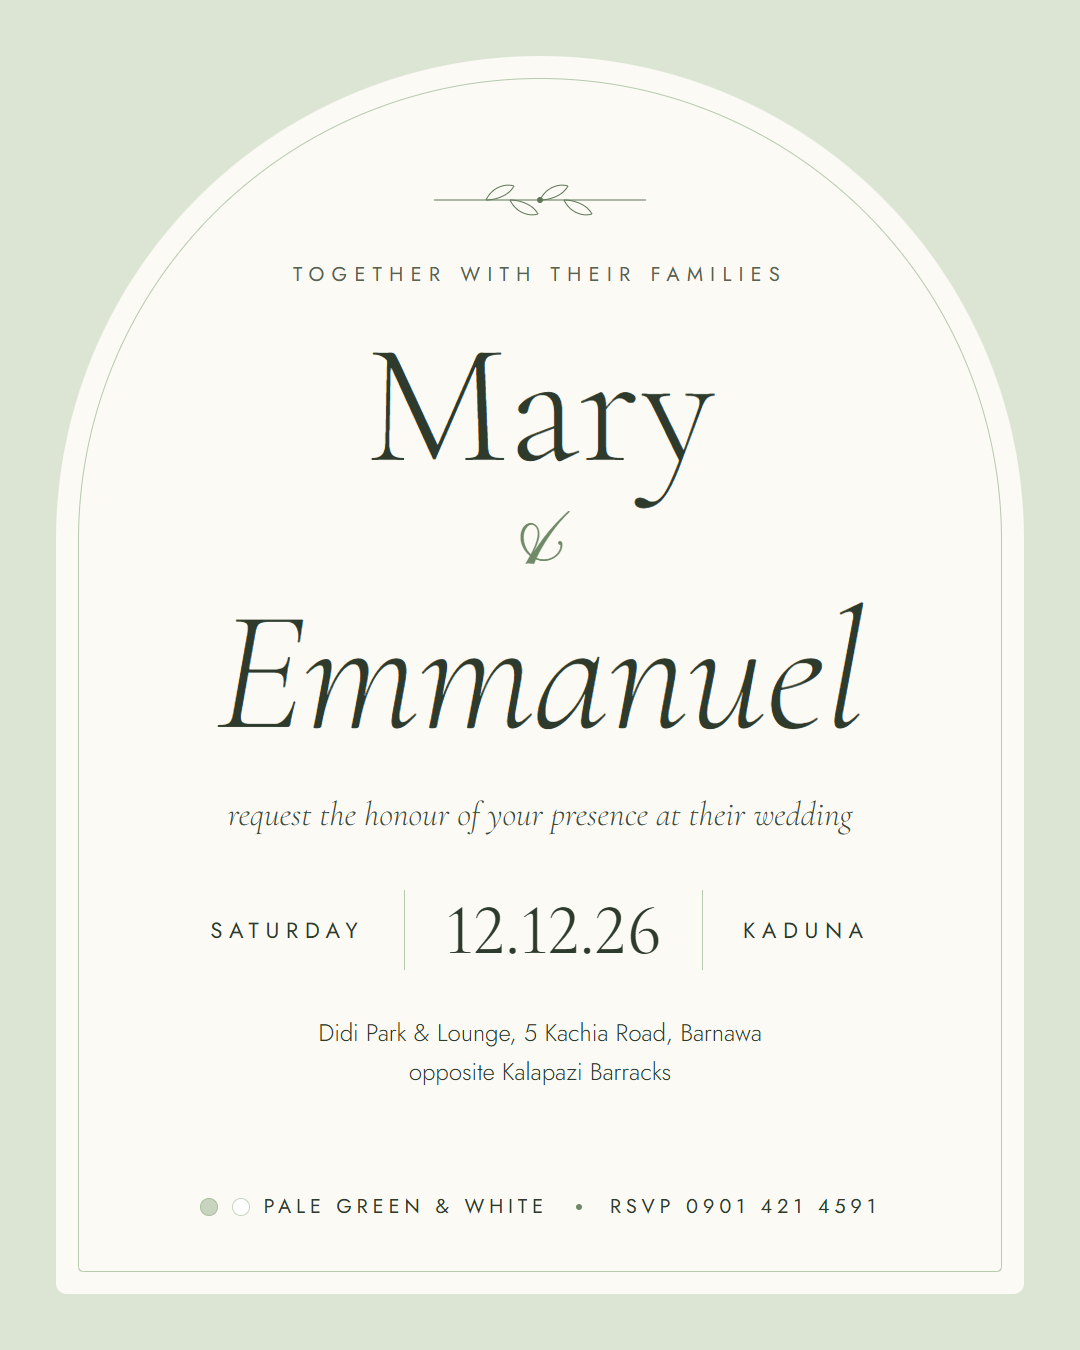
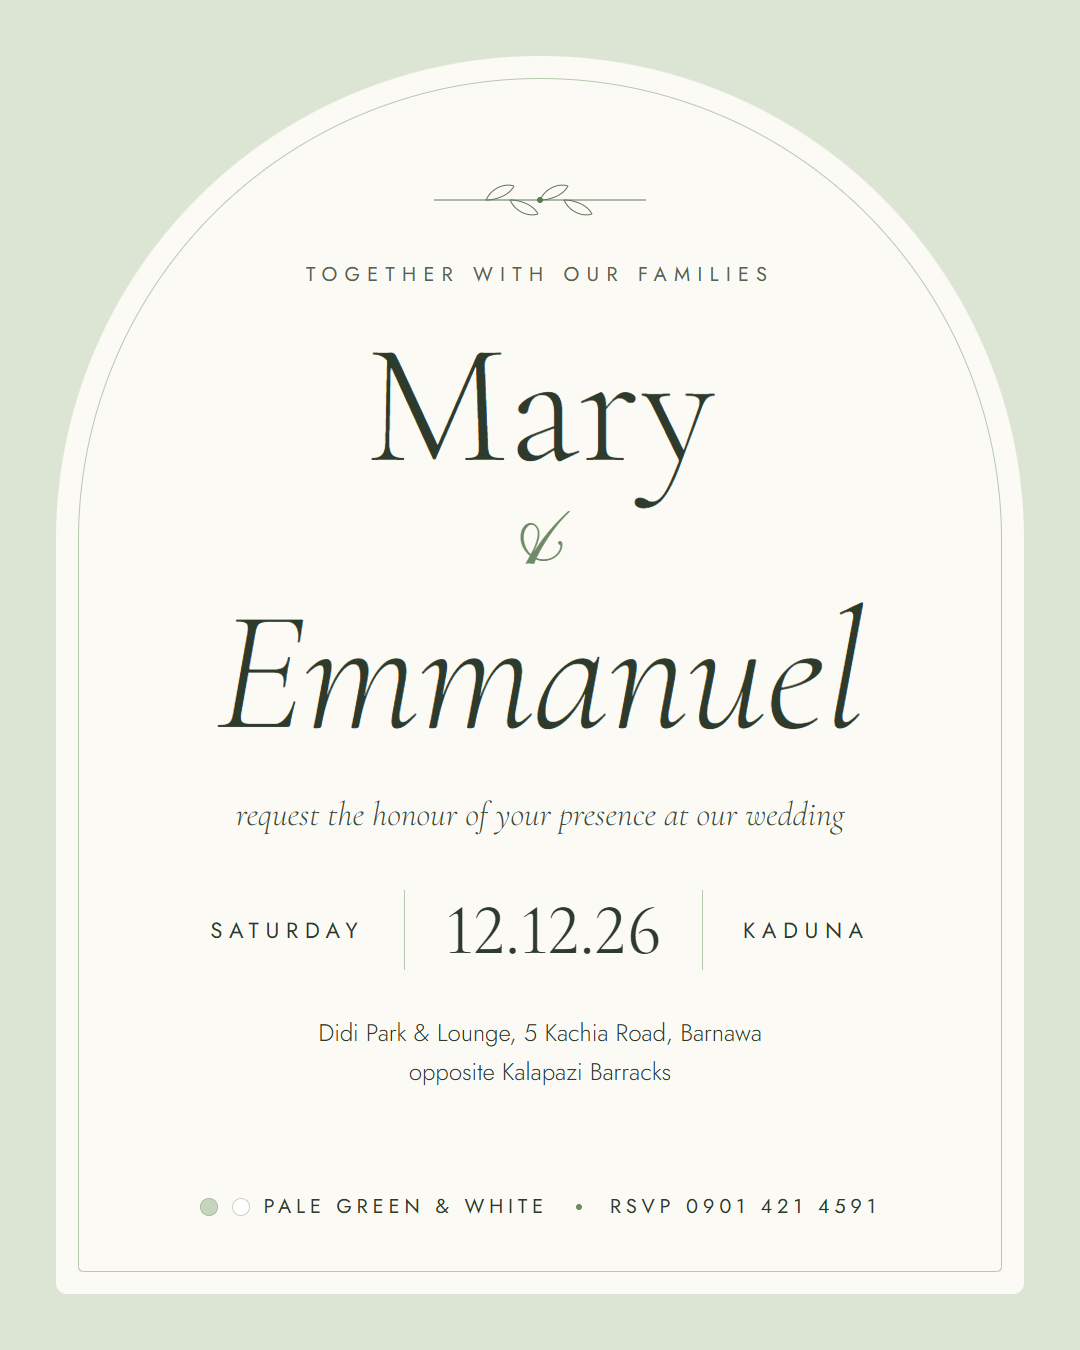
Copy: first-person voice from Mary & Emmanuel throughout; re-render share images

Changed region(s): [[0.2139, 0.5911, 0.7944, 0.6222], [0.275, 0.1867, 0.7333, 0.2178]]

diff --git a/src/content.ts b/src/content.ts
@@ -40,7 +40,7 @@ export const contact = {
 export const site = {
   title: 'Mary & Emmanuel — 12.12.2026',
   description:
-    "You're invited to the wedding of Mary & Emmanuel — Saturday 12 December 2026, Didi Park & Lounge, Kaduna.",
+    "You're invited! We're getting married on Saturday 12 December 2026 at Didi Park & Lounge, Kaduna, and we'd love you there.",
   hashtag: '#FoundFavour26',
   credit: 'Made with love by Letscr8t Studio',
   skipToContent: 'Skip to content',
@@ -96,8 +96,8 @@ export const nav = {
 } as const
 
 export const hero = {
-  eyebrow: 'Together with their families',
-  line: 'request the honour of your presence as they become one, before God and all who love them.',
+  eyebrow: 'Together with our families',
+  line: 'request the honour of your presence as we become one, before God and all who love us.',
   dateLabel: event.weekday,
   date: event.dateDots,
   placeLabel: event.city,
@@ -136,7 +136,7 @@ export const story = {
     {
       number: 'Chapter one',
       title: 'The first hello',
-      body: '[Where Mary & Emmanuel first met — two or three lines from the couple.]',
+      body: '[Where we first met — two or three lines, in our own words.]',
       tone: 'sage-200',
       photo: { src: null, alt: 'Mary and Emmanuel when they first met', label: 'Photo · [year]' },
     },
@@ -195,7 +195,7 @@ export const colours = {
   ],
   asoEbi: {
     title: 'Aso-ebi is available',
-    details: '[Fabric details & price — from the couple]',
+    details: '[Fabric details & price — to confirm]',
     cta: 'Order yours',
     href: whatsappLink(
       PHONE_INTL,
@@ -306,8 +306,8 @@ export const gallery = {
 } as const
 
 export const gift = {
-  heading: { roman: 'Bless', italic: 'the couple' } satisfies Heading,
-  body: "Your presence is the greatest gift. If you'd also like to bless our new home, you can send a gift directly — from anywhere in the world.",
+  heading: { roman: 'Bless', italic: 'our new home' } satisfies Heading,
+  body: "Your presence is the greatest gift you could give us. If you'd also like to send something, you can give to us directly — from anywhere in the world.",
   bank: 'Providus Bank',
   accountName: couple.brideFullName,
   accountNumber: '6503481739',
@@ -333,7 +333,7 @@ export const rsvp = {
     phone: { label: 'Phone number', placeholder: '080…' },
     attending: { legend: 'Attending?', yes: 'Joyfully accepts', no: 'Regretfully declines' },
     guests: { label: 'Number of guests', min: 1, max: 4 },
-    note: { label: 'A prayer or wish for the couple' },
+    note: { label: 'A prayer or wish for us' },
     honeypot: 'Leave this field empty',
     submit: 'Send RSVP',
     sending: 'Sending…',
@@ -372,7 +372,7 @@ export const faq = {
   items: [
     {
       q: 'What time does it start?',
-      a: '[Ceremony and reception times — to confirm.] Please arrive 30 minutes early so you are seated before the bride walks in.',
+      a: '[Ceremony and reception times — to confirm.] Please arrive 30 minutes early so you’re seated before Mary walks down the aisle.',
     },
     {
       q: 'Can I bring a plus-one or children?',
@@ -388,7 +388,7 @@ export const faq = {
     },
     {
       q: 'Can I take photos?',
-      a: 'Please do — and post them with #FoundFavour26 so the couple can relive the day through your eyes.',
+      a: 'Please do — and post them with #FoundFavour26 so we can relive the day through your eyes.',
     },
   ],
 } as const
@@ -401,7 +401,7 @@ export const footer = {
 
 export const share = {
   eyebrow: hero.eyebrow,
-  cardLine: 'request the honour of your presence at their wedding',
+  cardLine: 'request the honour of your presence at our wedding',
   dateShort: '12.12.26',
   weekday: event.weekday,
   city: event.city,
@@ -412,14 +412,14 @@ export const share = {
   seal: hero.seal,
   date: event.dateDots,
   guestMessage: (name: string, link: string) =>
-    `Dear ${name}, you're invited to the wedding of Mary & Emmanuel — ${event.dateLong}, ${venue.name}, ${event.city}.\n\nOpen your invitation: ${link}`,
+    `Dear ${name}, we're getting married and we'd love you to celebrate with us — ${event.dateLong}, ${venue.name}, ${event.city}.\n\nOpen your invitation: ${link}\n\nWith love,\nMary & Emmanuel`,
 } as const
 
 export const intro = {
   greetingPrefix: 'Dear',
   defaultGuest: 'Guest',
   invited: 'you’re invited',
-  cardEyebrow: 'The wedding of',
+  cardEyebrow: 'Join us for the wedding of',
   cardDate: `${event.dateDots} — ${event.city}`,
   tapHint: 'Tap the seal to open',
   openLabel: 'Open the invitation',

diff --git a/index.html b/index.html
@@ -6,7 +6,7 @@
     <title>Mary &amp; Emmanuel — 12.12.2026</title>
     <meta
       name="description"
-      content="You're invited to the wedding of Mary &amp; Emmanuel — Saturday 12 December 2026, Didi Park &amp; Lounge, Kaduna."
+      content="You're invited! We're getting married on Saturday 12 December 2026 at Didi Park &amp; Lounge, Kaduna, and we'd love you there."
     />
     <meta name="theme-color" content="#2E3B2C" />
     <link rel="icon" type="image/png" sizes="48x48" href="/favicon-48.png" />
@@ -18,7 +18,7 @@
     <meta property="og:title" content="Mary &amp; Emmanuel — 12.12.2026" />
     <meta
       property="og:description"
-      content="You're invited to the wedding of Mary &amp; Emmanuel — Saturday 12 December 2026, Didi Park &amp; Lounge, Kaduna."
+      content="You're invited! We're getting married on Saturday 12 December 2026 at Didi Park &amp; Lounge, Kaduna, and we'd love you there."
     />
     <meta property="og:image" content="%SITE_URL%/og.png" />
     <meta property="og:image:type" content="image/png" />

diff --git a/docs/CONTENT.md b/docs/CONTENT.md
@@ -1,6 +1,12 @@
 # Content — single source of truth
 Mirror this into `src/content.ts`. Anything in `[brackets]` is a placeholder still to come from the couple. Render it as-is and never invent it.
 
+**Voice:** everything guests read is written by Mary & Emmanuel in the first person ("we", "us", "our"). Exceptions: messages a guest sends (WhatsApp pre-fills), the guest's calendar entry title, and image alt text.
+
+## Link preview
+- Description: You're invited! We're getting married on Saturday 12 December 2026 at Didi Park & Lounge, Kaduna, and we'd love you there.
+- Personal invite message: Dear {name}, we're getting married and we'd love you to celebrate with us — Saturday, 12 December 2026, Didi Park & Lounge, Kaduna. Open your invitation: {link} — With love, Mary & Emmanuel
+
 ## Couple
 - Bride: **Mary** (full name: Mary Onyinoyi Audu)
 - Groom: **Emmanuel** — [surname]
@@ -20,15 +26,17 @@ Mirror this into `src/content.ts`. Anything in `[brackets]` is a placeholder sti
 > He who finds a wife finds a good thing, and obtains favour from the Lord. — **Proverbs 18:22**
 
 ## Hero copy
-- Eyebrow: Together with their families
-- Line: request the honour of your presence as they become one, before God and all who love them.
+- Eyebrow: Together with our families
+- Line: request the honour of your presence as we become one, before God and all who love us.
+- Envelope card: Join us for the wedding of / Mary & Emmanuel
+- Invite card line: request the honour of your presence at our wedding
 
 ## Countdown
 - Label: Until we say "I do"
 
 ## Our story
 - Intro: Three chapters, one love. A little of how we got here.
-- Chapter one: **The first hello**: [Where Mary & Emmanuel first met — two or three lines from the couple.] Photo label: 2019 [year]
+- Chapter one: **The first hello**: [Where we first met — two or three lines, in our own words.] Photo label: Photo · [year]
 - Chapter two: **The question**: [How Emmanuel proposed, and what Mary said first.]
 - Chapter three: **Forever, in Kaduna**: On the twelfth of December we begin the rest of our lives — and we want you there.
 
@@ -45,15 +53,15 @@ Mirror this into `src/content.ts`. Anything in `[brackets]` is a placeholder sti
 - Copy: Come dressed in pale green, crisp white — or both. Let's fill Didi Park with a garden.
 - Ladies: Pale green or white gowns, gele welcome
 - Gentlemen: White kaftan or agbada with a touch of green
-- Aso-ebi: "Aso-ebi is available" — [Fabric details & price — from the couple] — button "Order yours" → WhatsApp with the pre-filled text "Hi, I'd like to order the aso-ebi for Mary & Emmanuel's wedding"
+- Aso-ebi: "Aso-ebi is available" — [Fabric details & price — to confirm] — button "Order yours" → WhatsApp with the pre-filled text "Hi, I'd like to order the aso-ebi for Mary & Emmanuel's wedding"
 
 ## Gallery
 Photos: `public/images/gallery/*.webp` (the couple will supply them). Videos: [YouTube/Drive links or mp4].
 Placeholder tiles until the media arrives: Pre-wedding 01–04, Introduction, Engagement film (video), Behind the scenes (video).
 
 ## Gift
-- Heading: Bless the couple
-- Copy: Your presence is the greatest gift. If you'd also like to bless our new home, you can send a gift directly — from anywhere in the world.
+- Heading: Bless *our new home*
+- Copy: Your presence is the greatest gift you could give us. If you'd also like to send something, you can give to us directly — from anywhere in the world.
 - Bank: **Providus Bank**
 - Account name: **Mary Onyinoyi Audu**
 - Account number: **6503481739** (display `6503 481 739`)
@@ -63,15 +71,15 @@ Placeholder tiles until the media arrives: Pre-wedding 01–04, Introduction, En
 - Deadline: [RSVP deadline]
 - Phone: **0901 421 4591**: `tel:+2349014214591`, `https://wa.me/2349014214591`
 - Contact name: [Contact person's name]
-- Form fields: Full name (required), Phone, Attending (Joyfully accepts / Regretfully declines), Number of guests (1–4), A prayer or wish for the couple
+- Form fields: Full name (required), Phone, Attending (Joyfully accepts / Regretfully declines), Number of guests (1–4), A prayer or wish for us
 - Thank-you: accepts → "We can't wait to celebrate with you, {firstName}." / declines → "We'll miss you, {firstName}. Thank you for letting us know."
 
 ## FAQ
-1. **What time does it start?** [Ceremony and reception times — to confirm.] Please arrive 30 minutes early so you are seated before the bride walks in.
+1. **What time does it start?** [Ceremony and reception times — to confirm.] Please arrive 30 minutes early so you're seated before Mary walks down the aisle.
 2. **Can I bring a plus-one or children?** [Policy — to confirm.] Please list everyone coming with you on your RSVP so we can plan seating.
-3. **Is there parking at the venue?** Yes, Didi Park & Lounge has on-site parking. It sits on Kachia Road, opposite Kalapazi Barracks and behind Enyo Filling Station. *(confirm with the venue)*
+3. **Is there parking at the venue?** [On-site parking — confirm with the venue.] Didi Park & Lounge sits on Kachia Road, opposite Kalapazi Barracks and behind Enyo Filling Station.
 4. **Where do guests from outside Kaduna stay?** [Recommended hotels near Barnawa — to add.]
-5. **Can I take photos?** Please do — and post them with #FoundFavour26 so the couple can relive the day through your eyes.
+5. **Can I take photos?** Please do — and post them with #FoundFavour26 so we can relive the day through your eyes.
 
 ## Footer
 - Saturday, 12 December 2026 · Didi Park & Lounge, Kaduna

diff --git a/docs/DESIGN_SPEC.md b/docs/DESIGN_SPEC.md
@@ -67,7 +67,7 @@ Reference: `Welcome.dc.html`.
 - Top: an eyebrow with the guest's name, then *"you're invited"* in italic Cormorant.
   - **Personalised links:** `?to=Aunty%20Grace` shows "DEAR AUNTY GRACE". With no param it shows "DEAR GUEST". Sanitise the value to text only, max 40 characters.
 - Centre: the envelope (back `sage-300`, front pocket `sage-200` V-shape, flap `sage-400` triangle) with the M&E wax seal (`sage-600` circle, Pinyon Script).
-- Tap the seal: the flap rotates open (rotateX 180°, 0.6s), the card rises out (0.9s, 0.35s delay), and the seal fades. The card shows "THE WEDDING OF / Mary & *Emmanuel* / 12 · 12 · 2026 — KADUNA".
+- Tap the seal: the flap rotates open (rotateX 180°, 0.6s), the card rises out (0.9s, 0.35s delay), and the seal fades. The card shows "JOIN US FOR THE WEDDING OF / Mary & *Emmanuel* / 12 · 12 · 2026 — KADUNA".
 - An "Enter our wedding" button appears. It fades the overlay out and unlocks scroll.
 - Store `seenIntro` in sessionStorage so a refresh skips the intro. Add a small "Skip" link for returning guests.
 - Background music is optional (phase 6): a small mute/unmute pill that starts only after the seal tap.
@@ -76,7 +76,7 @@ Reference: `Welcome.dc.html`.
 
 1. **Nav**: sticky with an ivory blur background. Left: the "M&E" monogram (the & in Pinyon). Centre: Our story · The day · Colours · Gallery · Gift (hidden under 820px). Right: a dark "RSVP" pill. Links scroll smoothly.
 2. **Hero**: two columns that stack on mobile.
-   - Left column: the eyebrow "Together with their families", then *Mary*, a script &, and *Emmanuel* in italic. Below that, the italic line "request the honour of your presence…", a hairline, and the date and venue blocks ("SATURDAY / 12 · 12 · 2026" | "KADUNA / Didi Park & Lounge").
+   - Left column: the eyebrow "Together with our families", then *Mary*, a script &, and *Emmanuel* in italic. Below that, the italic line "request the honour of your presence…", a hairline, and the date and venue blocks ("SATURDAY / 12 · 12 · 2026" | "KADUNA / Didi Park & Lounge").
    - Right column: the arch-shaped couple photo, with an offset outline arch behind it. A rotated dark circular "Save the date" seal overlaps its bottom-left.
 3. **Countdown**: a `forest-900` band. It shows *Until we say "I do"*, a live DD/HH/MM/SS countdown, and an "Add to calendar" outline pill (Google Calendar link; optionally also an .ics download).
 4. **Scripture**: a `sage-150` band with a centred sprig, then Proverbs 18:22 in huge light serif, with "He who finds a wife" and "favour" in italic. The reference "PROVERBS 18 : 22" sits below as an eyebrow.
@@ -86,7 +86,7 @@ Reference: `Welcome.dc.html`.
    - Venue: a dark card with a drawn line map (Kachia Road, Enyo Station, Kalapazi Barracks, plus a sage pin). Below the map: the name, the address, landmark chips, and "Get directions" (Google Maps) and "Lost? WhatsApp us" buttons.
 7. **Colours of the day**: copy on the left, with "Ladies" and "Gentlemen" lines and a dashed **aso-ebi** box ("Order yours" opens a WhatsApp chat). On the right, two big overlapping circles: Pale green (`#C8D5BE`) and White, offset diagonally.
 8. **Gallery**: a `forest-900` band. Heading "Moments *so far*" with filter pills (All / Photos / Films). Below is a dense grid in auto-fill columns with rows of mixed height. Video tiles show a play button and open in a lightbox modal. Photos open in a lightbox with swipe and arrow keys. A hashtag line **#FoundFavour26** sits underneath.
-9. **Gift**: copy on the left, "Bless *the couple*". On the right, a **bank card**: forest-900, 1.586 ratio, a large faint "M&E" script watermark, "PROVIDUS BANK", a chip icon, the number `6503 481 739`, "MARY ONYINOYI AUDU", and a "Copy account number" button that changes to "Copied ✓" for 2.2s.
+9. **Gift**: copy on the left, "Bless *our new home*". On the right, a **bank card**: forest-900, 1.586 ratio, a large faint "M&E" script watermark, "PROVIDUS BANK", a chip icon, the number `6503 481 739`, "MARY ONYINOYI AUDU", and a "Copy account number" button that changes to "Copied ✓" for 2.2s.
 10. **RSVP**: a `sage-150` band.
     - Left: "Will you *be there?*", a deadline line, the contact number, Call and WhatsApp buttons.
     - Right: an ivory form with full name, phone, Attending (two pill toggles, `aria-pressed`), number of guests (1–4), and a prayer or wish for the couple. The submit button reads "Send RSVP".
